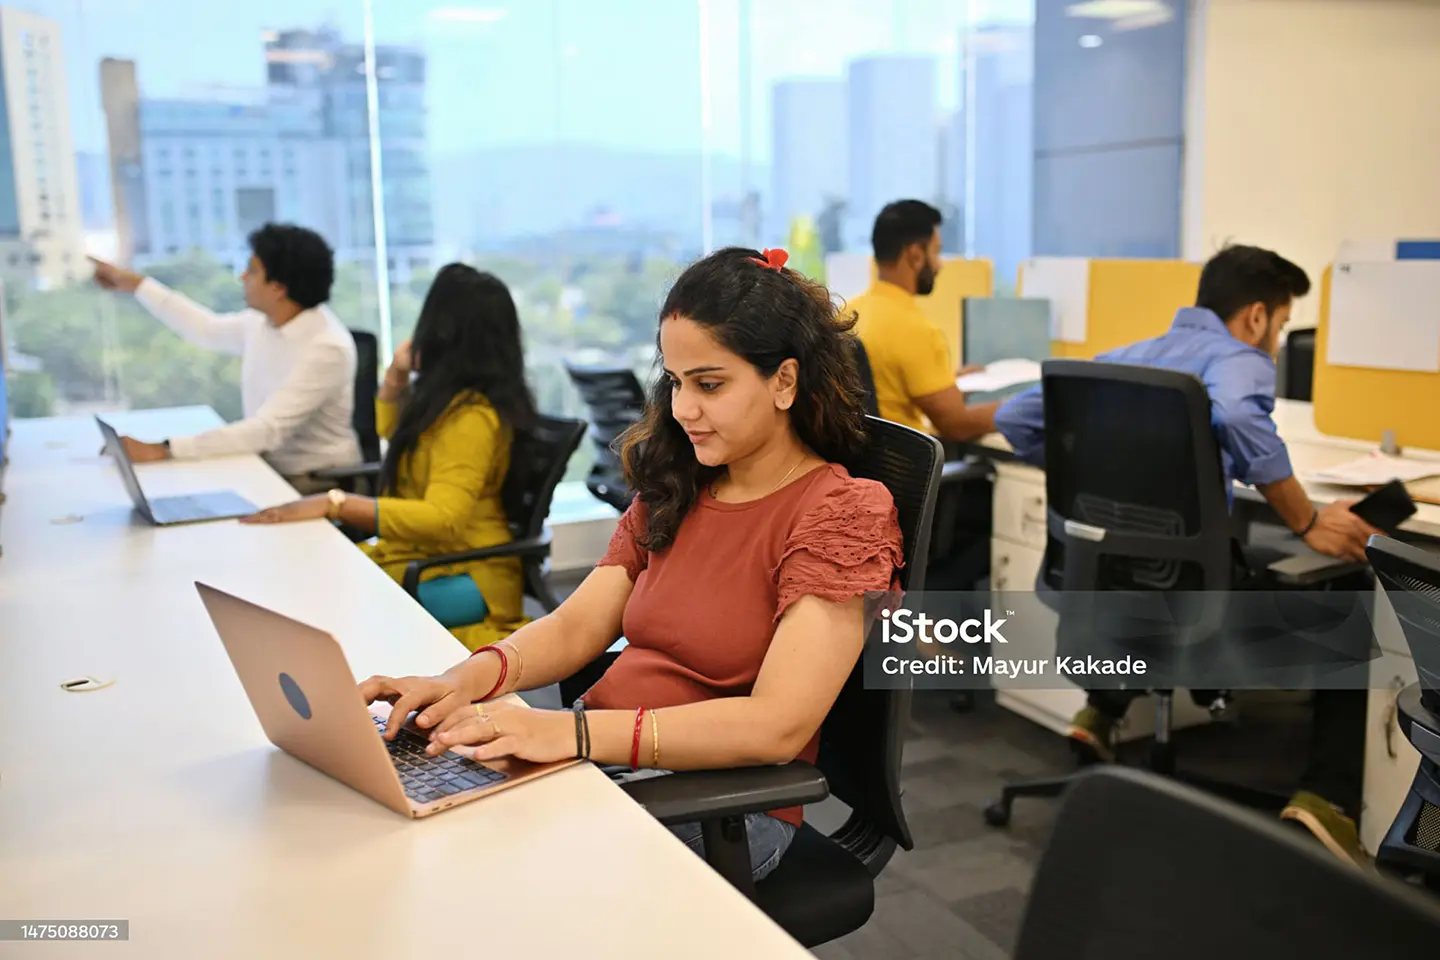
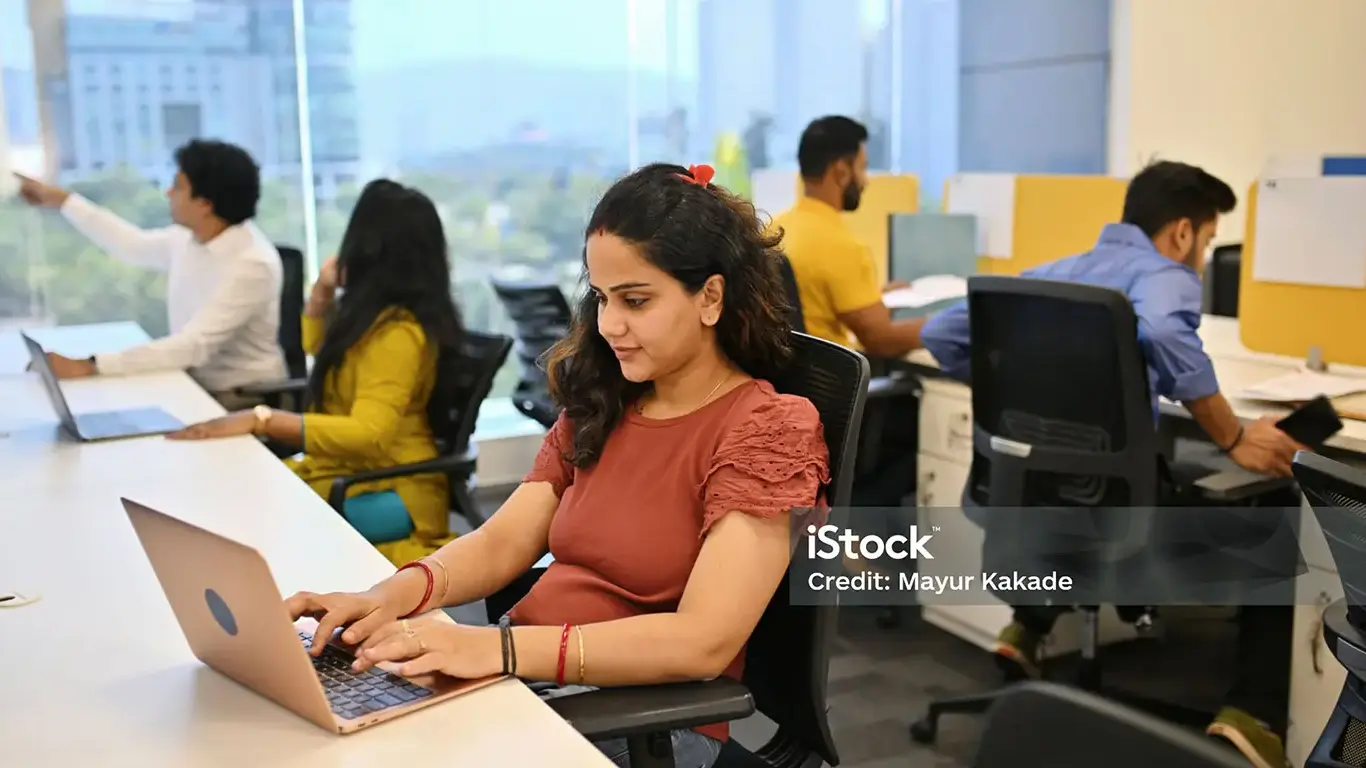
aspect ratio changed

diff --git a/src/styles/styles.css b/src/styles/styles.css
@@ -54,6 +54,7 @@
     --radius-3xl: 1.5rem;
     --blur-xs: 4px;
     --blur-3xl: 64px;
+    --aspect-video: 16 / 9;
     --default-transition-duration: 150ms;
     --default-transition-timing-function: cubic-bezier(0.4, 0, 0.2, 1);
     --default-font-family: var(--font-sans);
@@ -324,6 +325,30 @@
   .hidden {
     display: none;
   }
+  .aspect-3\/1 {
+    aspect-ratio: 3/1;
+  }
+  .aspect-3\/2 {
+    aspect-ratio: 3/2;
+  }
+  .aspect-4\/2 {
+    aspect-ratio: 4/2;
+  }
+  .aspect-4\/3 {
+    aspect-ratio: 4/3;
+  }
+  .aspect-\[16\/10\] {
+    aspect-ratio: 16/10;
+  }
+  .aspect-\[calc\(4\*3\+1\)\/3\] {
+    aspect-ratio: calc(4 * 3 + 1)/3;
+  }
+  .aspect-auto {
+    aspect-ratio: auto;
+  }
+  .aspect-video {
+    aspect-ratio: var(--aspect-video);
+  }
   .h-0\.5 {
     height: calc(var(--spacing) * 0.5);
   }
@@ -339,14 +364,26 @@
   .h-screen {
     height: 100vh;
   }
+  .max-h-56 {
+    max-height: calc(var(--spacing) * 56);
+  }
   .min-h-64 {
     min-height: calc(var(--spacing) * 64);
+  }
+  .w-2\/3 {
+    width: calc(2/3 * 100%);
+  }
+  .w-3\/4 {
+    width: calc(3/4 * 100%);
   }
   .w-6 {
     width: calc(var(--spacing) * 6);
   }
   .w-8\/12 {
     width: calc(8/12 * 100%);
+  }
+  .w-10\/12 {
+    width: calc(10/12 * 100%);
   }
   .w-\[80\%\] {
     width: 80%;
@@ -548,6 +585,14 @@
   .mask-alpha {
     mask-mode: alpha;
   }
+  .object-cover {
+    -o-object-fit: cover;
+       object-fit: cover;
+  }
+  .object-fill {
+    -o-object-fit: fill;
+       object-fit: fill;
+  }
   .p-0 {
     padding: calc(var(--spacing) * 0);
   }
@@ -683,6 +728,11 @@
   .\*\:grid-cols-1 {
     :is(& > *) {
       grid-template-columns: repeat(1, minmax(0, 1fr));
+    }
+  }
+  .\*\:gap-2 {
+    :is(& > *) {
+      gap: calc(var(--spacing) * 2);
     }
   }
   .\*\:gap-4 {
